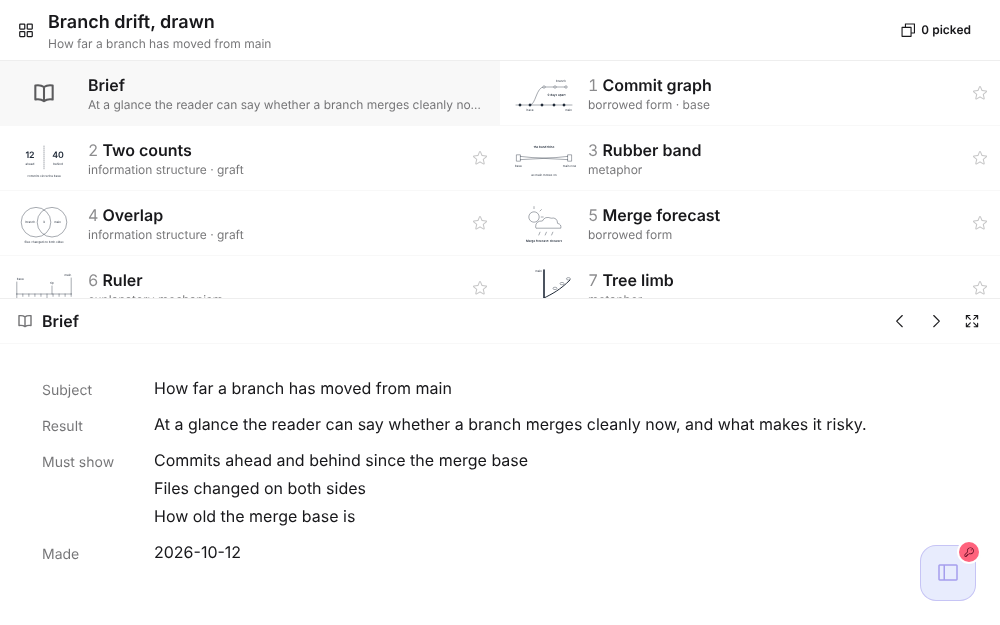
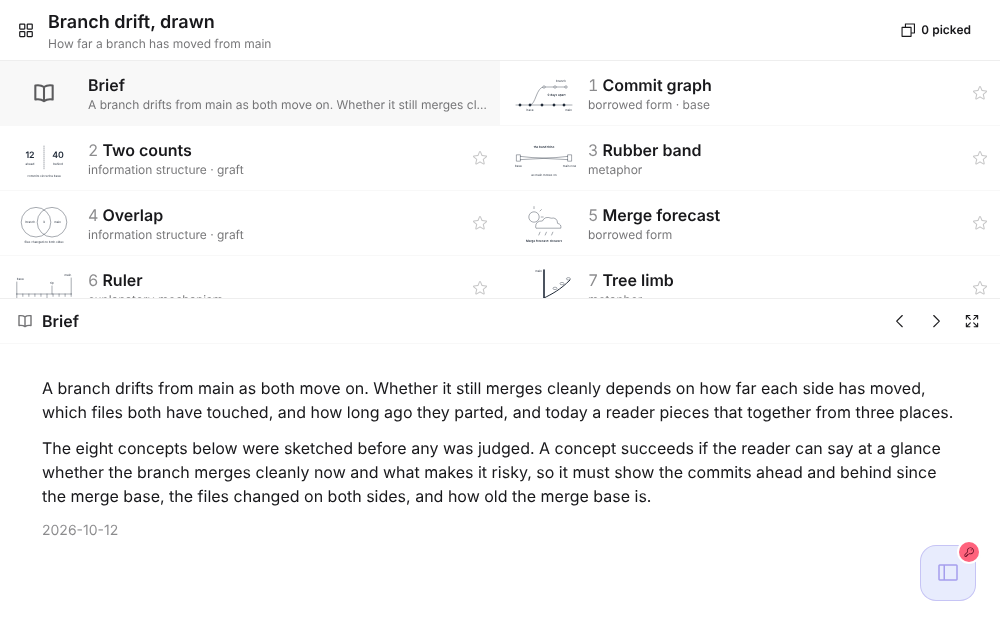
Idea board: the brief is prose
The brief card shows the board's brief as paragraphs, formatted as a
commentary is, with the made date beneath, in place of label and value
pairs (Subject, Result, Must show, Made). The board format's brief becomes
one prose field that can hold the background and how the concepts were
made; a brief with result and musts[] is joined into prose. The demo
board's brief moves to prose.

Claude-Session: https://claude.ai/code/session_01Ug8CX7fEZku96bGVnsboE4

Changed region(s): [[0.031, 0.608, 0.961, 0.912], [0.093, 0.152, 0.496, 0.1824], [0.031, 0.8816, 0.093, 0.912]]

diff --git a/pages/idea-board.html b/pages/idea-board.html
@@ -134,6 +134,14 @@ document.addEventListener('alpine:init', () => {
     // (docs/prototypes/md-edit-ideas.json, a write-once record) is read with
     // the two joined as its commentary.
     commentary(d) { return d.commentary != null ? d.commentary : [d.encounter, d.helps].filter(Boolean).join('\n\n'); },
+    // A board whose brief is result and musts[] (docs/prototypes/md-edit-ideas.json
+    // again) has the two read as prose: the result, then what a concept must show.
+    get briefText() {
+      const b = this.B.brief;
+      return typeof b === 'string' ? b : [b.result, (b.musts || []).length ? 'A concept must show ' + b.musts.map(m => /^.[a-z]/.test(m) ? m.charAt(0).toLowerCase() + m.slice(1) : m).join('; ') + '.' : ''].filter(Boolean).join('\n\n');
+    },
+    // The brief's list row: its first paragraph, unformatted.
+    get briefLead() { return this.briefText.split(/\n\s*\n/)[0].replace(/\*\*|`/g, ''); },
     mark(kind, size = 16) { return window.CallMarks ? window.CallMarks.svg(kind, { size }) : ''; },
 
     // The deck's subtitle names the card in view, as the strip's header does.
@@ -206,16 +214,10 @@ document.addEventListener('alpine:init', () => {
       this.note(el, d.n);
     },
 
+    // The brief is prose, formatted as a commentary is, with its date beneath.
     renderBrief(el) {
-      const B = this.B;
-      el.innerHTML = `<div class="grid gap-4">
-        <dl class="grid grid-cols-[6rem_minmax(0,1fr)] gap-x-4 gap-y-3">
-          <dt class="text-sm text-base-content/60 pt-1">Subject</dt><dd class="text-pretty">${esc(B.subject)}</dd>
-          <dt class="text-sm text-base-content/60 pt-1">Result</dt><dd class="text-pretty">${esc(B.brief.result)}</dd>
-          <dt class="text-sm text-base-content/60 pt-1">Must show</dt>
-          <dd class="grid gap-1">${B.brief.musts.map(m => `<span class="text-pretty">${esc(m)}</span>`).join('')}</dd>
-          <dt class="text-sm text-base-content/60 pt-1">Made</dt><dd>${esc(B.made)}</dd>
-        </dl>
+      el.innerHTML = `<div class="grid gap-3 text-pretty">${prose(this.briefText)}
+        <p class="text-sm text-base-content/50">${esc(this.B.made)}</p>
       </div>`;
     },
 
@@ -288,7 +290,7 @@ document.addEventListener('alpine:init', () => {
           <span class="justify-self-center text-base-content/70" x-html="mark('background', 26)"></span>
           <span class="grid min-w-0">
             <span class="font-semibold">Brief</span>
-            <span class="text-xs text-base-content/60 truncate" x-text="B.brief.result"></span>
+            <span class="text-xs text-base-content/60 truncate" x-text="briefLead"></span>
           </span>
         </li>
         <template x-for="(d, i) in B.ideas" :key="d.n">

diff --git a/docs/idea-board.md b/docs/idea-board.md
@@ -22,7 +22,7 @@ the board that was handed over.
 | Field | Holds |
 | --- | --- |
 | `title`, `subject`, `made` | the board's name, what it is about, and the date |
-| `brief.result`, `brief.musts[]` | the intended result and what the concept must show, from phase 1 |
+| `brief` | prose from phase 1: the background, how the concepts were made, the intended result and what a concept must show, formatted as a commentary is |
 | `ideas[]` | eight concepts: `n`, `title`, `kind` (its principal difference), `commentary`, `sketch` |
 | `selection.pick[]` | the base concept's `n` |
 | `selection.grafts[]` | `[n, what is taken from it]` pairs |
@@ -46,7 +46,7 @@ the board that was handed over.
 
 A board has four parts: the brief is its background, each idea has a proposal (its `title`, `kind` and `sketch`) and a commentary (its `commentary`), and the selection is its conclusion. [`lib/kits/call-marks.js`](../lib/kits/call-marks.js) draws an icon for each part, and the page marks the brief and the selection with the kit's book and stamp.
 
-Each idea is one card: its commentary, then its sketch, then the reader's star and note; from 1280 pixels wide the sketch sits beside the other two. The commentary is a short, qualified discussion of what the idea brings, in paragraphs separated by a blank line, with `**bold**` and `` `code` `` the only formatting drawn. The header above the strip of cards names the card in view by its number and `title`. A board whose ideas have `encounter` and `helps` in place of `commentary`, as [`docs/prototypes/md-edit-ideas.json`](prototypes/md-edit-ideas.json) does (a record, never edited once on main), is read with the two joined as its commentary.
+Each idea is one card: its commentary, then its sketch, then the reader's star and note; from 1280 pixels wide the sketch sits beside the other two. The commentary is a short, qualified discussion of what the idea brings, in paragraphs separated by a blank line, with `**bold**` and `` `code` `` the only formatting drawn. The header above the strip of cards names the card in view by its number and `title`. The brief card shows the brief as prose with the board's `made` date beneath it. A board whose brief has `result` and `musts[]` and whose ideas have `encounter` and `helps`, as [`docs/prototypes/md-edit-ideas.json`](prototypes/md-edit-ideas.json) does (a record, never edited once on main), is read with each pair joined into prose.
 
 ## Returning picks
 
